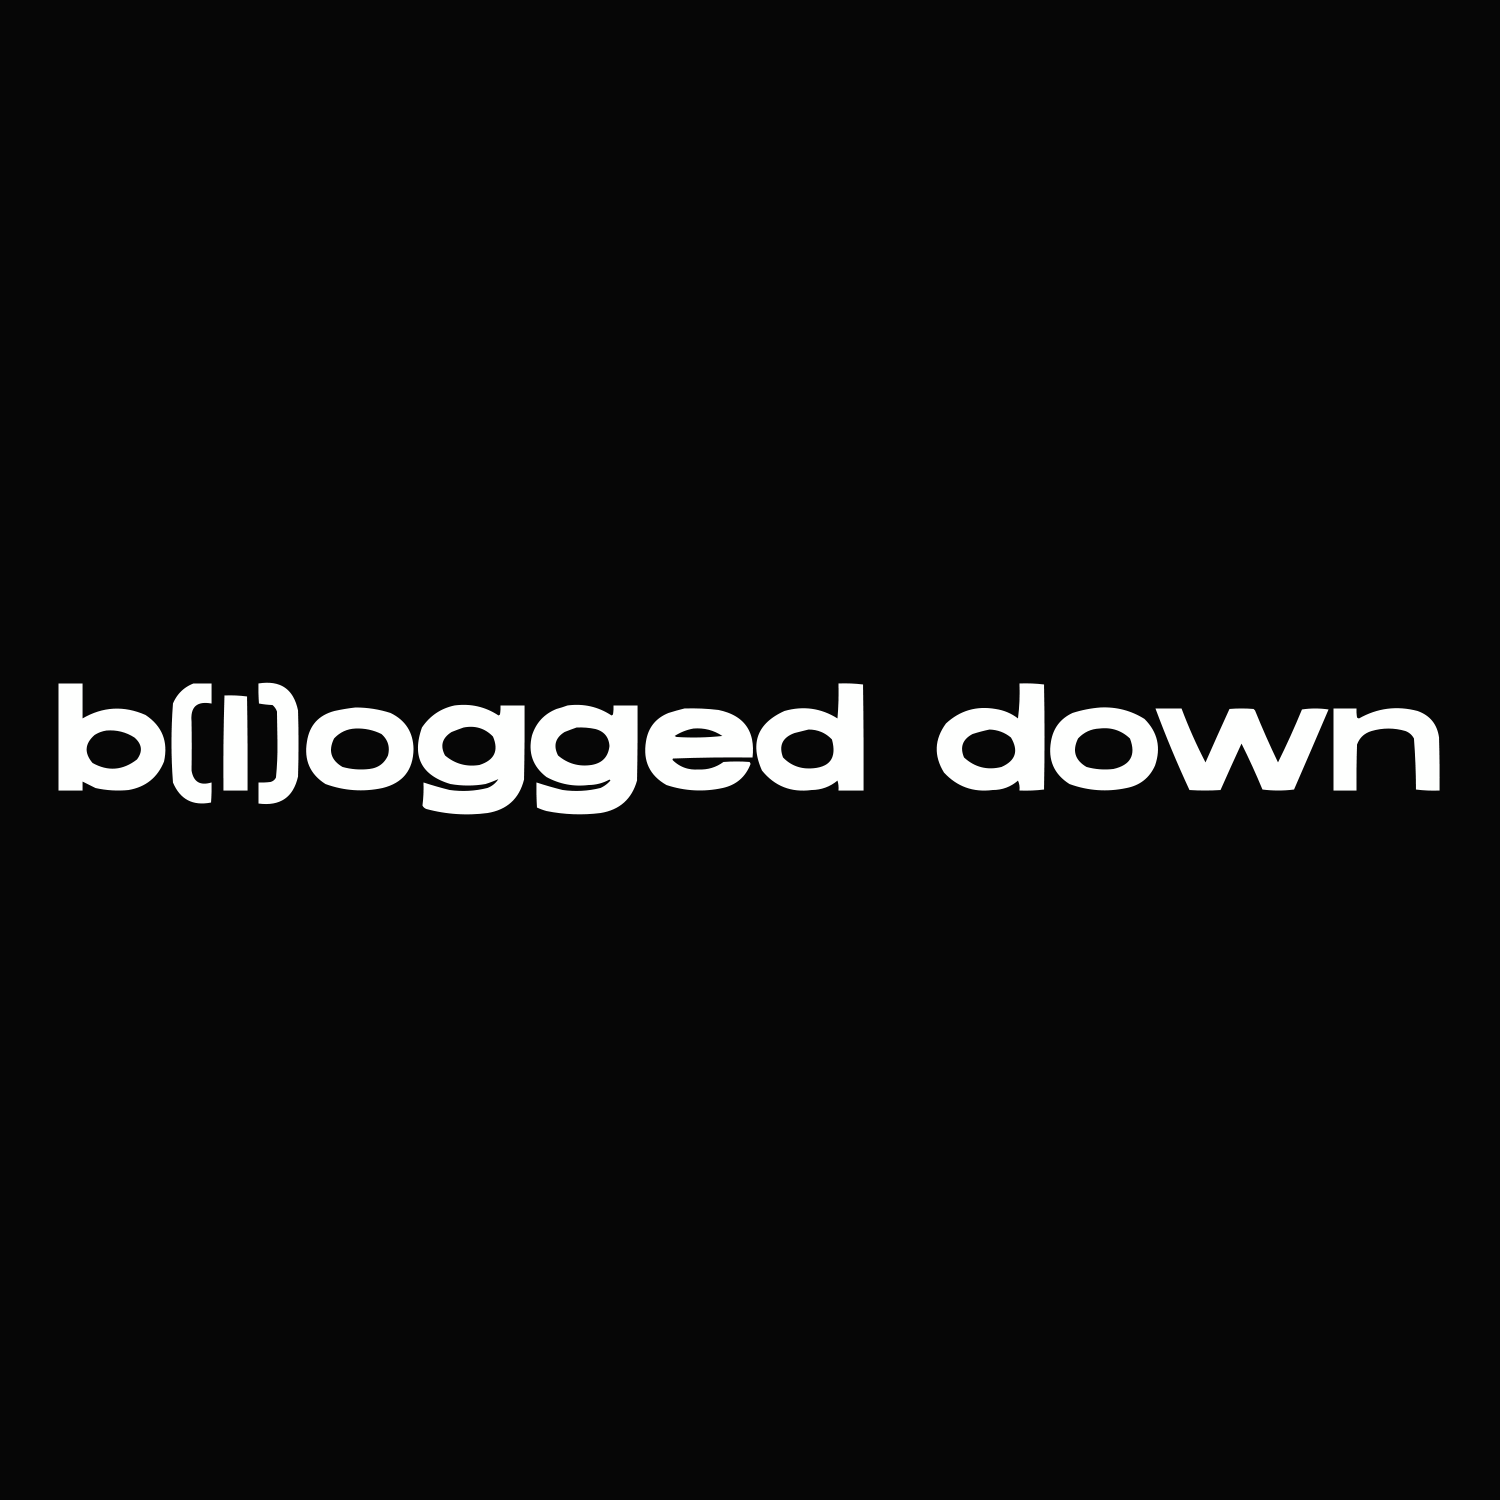
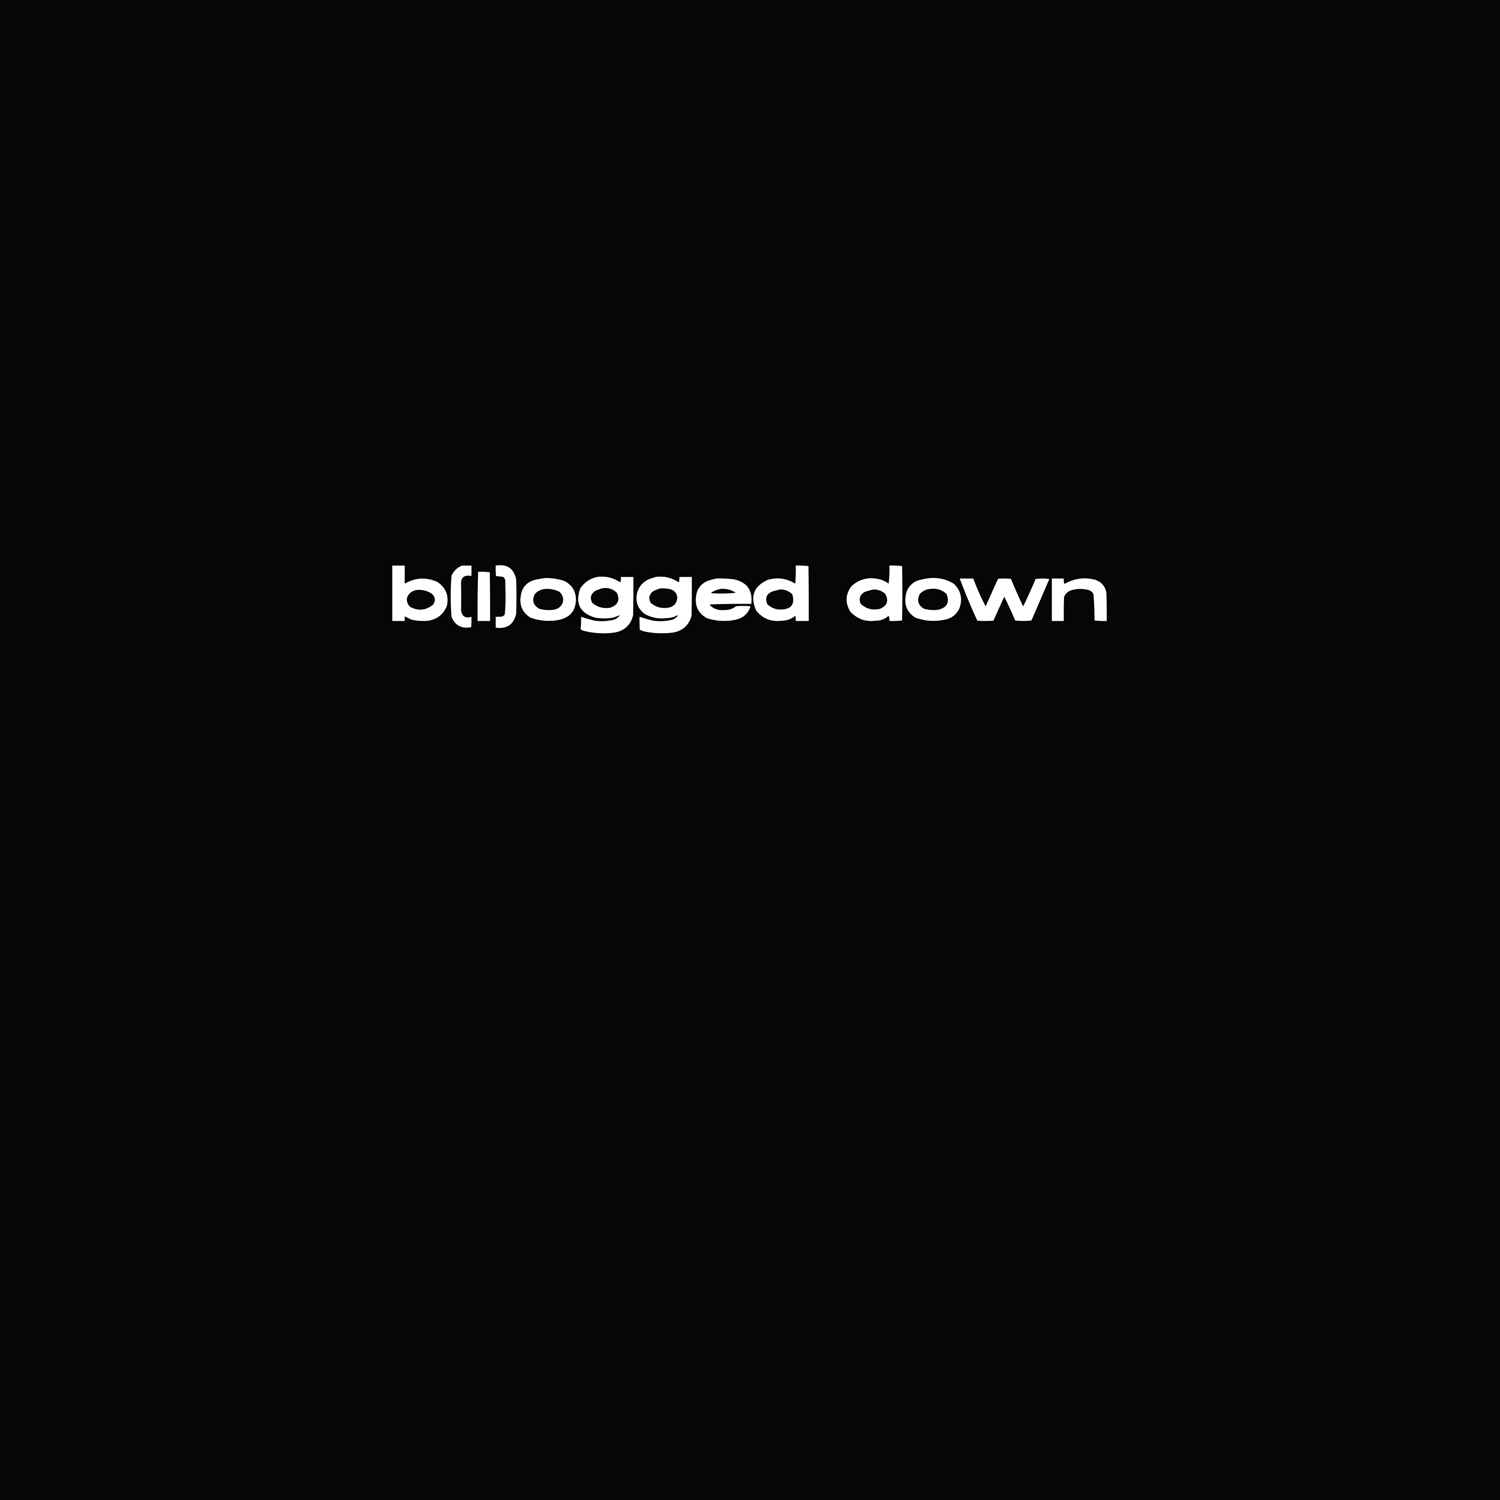
Added design elements to Carousel functions

Changed region(s): [[0.0307, 0.46, 0.5827, 0.552], [0.2453, 0.368, 0.736, 0.4293], [0.6133, 0.46, 0.9813, 0.552]]

diff --git a/index.html b/index.html
@@ -11,9 +11,9 @@
   <link rel="stylesheet" href="./assets/style.css">
 </head>
 <body>
-  <nav class="navbar navbar-expand-lg navbar-light bg-light fixed-top">
+  <nav class="navbar navbar-expand-lg navbar-dark bg-dark fixed-top">
     <div class="container">
-      <a class="navbar-brand" href="#"><span>Rep</span>airo</a>
+      <a class="navbar-brand" href="#"><span>B(l)ogged</span>Down</a>
       <button class="navbar-toggler" type="button" data-bs-toggle="collapse" data-bs-target="#navbarSupportedContent" aria-controls="navbarSupportedContent" aria-expanded="false" aria-label="Toggle navigation">
         <span class="navbar-toggler-icon"></span>
       </button>
@@ -42,7 +42,7 @@
     </div>
   </nav>
 
-  <div id="carouselExampleCaptions" class="carousel slide">
+  <div id="carouselExampleCaptions" data-bs-ride="carousel" class="carousel slide">
     <div class="carousel-indicators">
       <button type="button" data-bs-target="#carouselExampleCaptions" data-bs-slide-to="0" class="active" aria-current="true" aria-label="Slide 1"></button>
       <button type="button" data-bs-target="#carouselExampleCaptions" data-bs-slide-to="1" aria-label="Slide 2"></button>
@@ -51,14 +51,14 @@
     <div class="carousel-inner">
       <div class="carousel-item active">
         <div class="carousel-caption">
-          <h5 class="animated fadeInDown" style="animation-delay:1s">Competitive <span>Prices</span></h5>
+          <h5 class="animated fadeInDown" style="animation-delay:1s">New Ways <span>Of Thinking</span></h5>
           <p class="animated fadeInUp" style="animation-delay: 2s;">Lorem ipsum dolor sit amet consectetur adipisicing elit. Culpa nesciunt excepturi corrupti veniam animi quia nobis aliquam quas quibusdam quis odio ullam, eos error magnam vel nihil doloribus? Corporis, incidunt?.</p>
           <p class="animated fadeInUp" style="animation-delay: 3s;"><a href="#">Learn More</a></p>
         </div>
       </div>
       <div class="carousel-item">
         <div class="carousel-caption">
-          <h5 class="animated fadeInDown" style="animation-delay:1s">Long <span>Warranties</span></h5>
+          <h5 class="animated fadeInDown" style="animation-delay:1s">Blog <span>Post here</span></h5>
           <p class="animated fadeInUp" style="animation-delay: 2s;">Lorem ipsum dolor sit amet consectetur adipisicing elit. Culpa nesciunt excepturi corrupti veniam animi quia nobis aliquam quas quibusdam quis odio ullam, eos error magnam vel nihil doloribus? Corporis, incidunt?.</p>
           <p class="animated fadeInUp" style="animation-delay: 3s;"><a href="#">Learn More</a></p>
         </div>

diff --git a/assets/style.css b/assets/style.css
@@ -21,7 +21,7 @@
 }
 
 .navbar-light .navbar-brand {
-    color: #08194a;
+    color: #686868;
     font-size: 25px;
     text-transform: uppercase;
     font-weight: bold;
@@ -29,5 +29,68 @@
 }
 
 .navbar-light .navbar-brand span {
-    color: #e53f29;
+    color: #000000;
+}
+
+.section-padding {
+    padding: 80px 0;
+}
+
+.w-11 {
+    height: 100vh;
+}
+
+.navbar-toggler {
+    padding: 1px 5px;
+    font-size: 18px;
+    line-height: 0.3;
+    background: #fff;
+}
+
+.carousel {
+    background-image: url(./images/BLOGGED\ DOWN.png);
+    background-size: cover;
+    background-position: center;
+}
+
+.carousel-item {
+    height: 100vh;
+    min-height: 300px;
+}
+
+.carousel-caption {
+    bottom: 220px;
+    z-index: 2;
+    left: 8%;
+}
+
+.carousel-caption h5 {
+    font-size: 45px;
+    margin-top: 25px;
+    color: #ff00d4;
+    font-weight: 700;
+    text-align: left;
+}
+
+.carousel-caption h5 span {
+    color: #ffade4;
+}
+
+.carousel-caption p {
+    width: 60%;
+    font-size: 18px;
+    line-height: 1.8;
+    color: #ffffff;
+    text-align: left;
+}
+
+.carousel-caption a {
+    text-transform: uppercase;
+    text-decoration: none;
+    background: #ffa8ff;
+    padding: 5px 20px;
+    display: inline-block;
+    color: #000000;
+    margin-top: 15px;
+    border-radius: 5px;
 }
